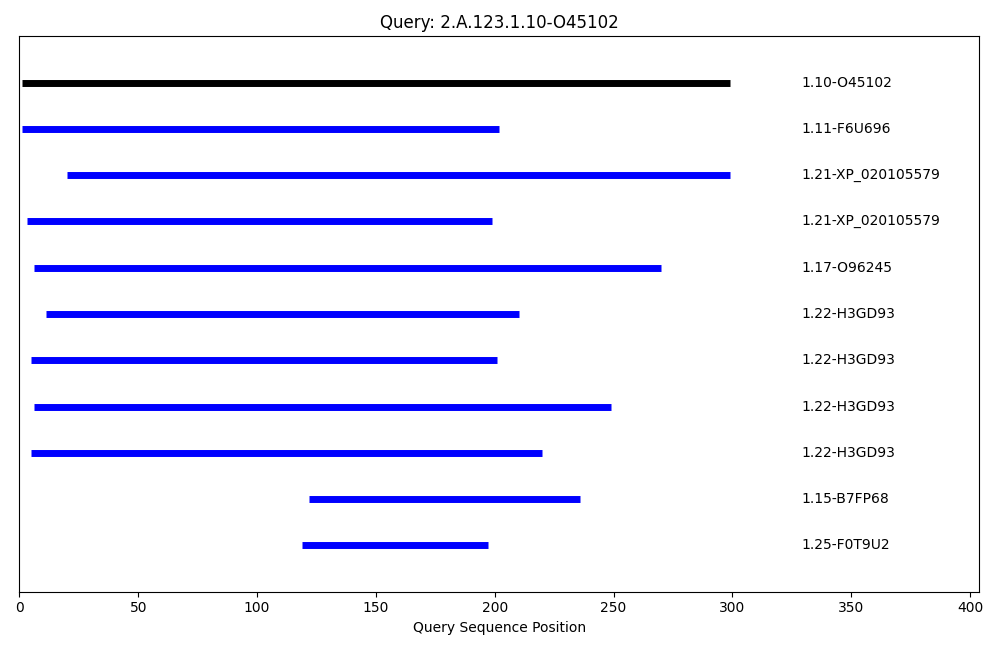
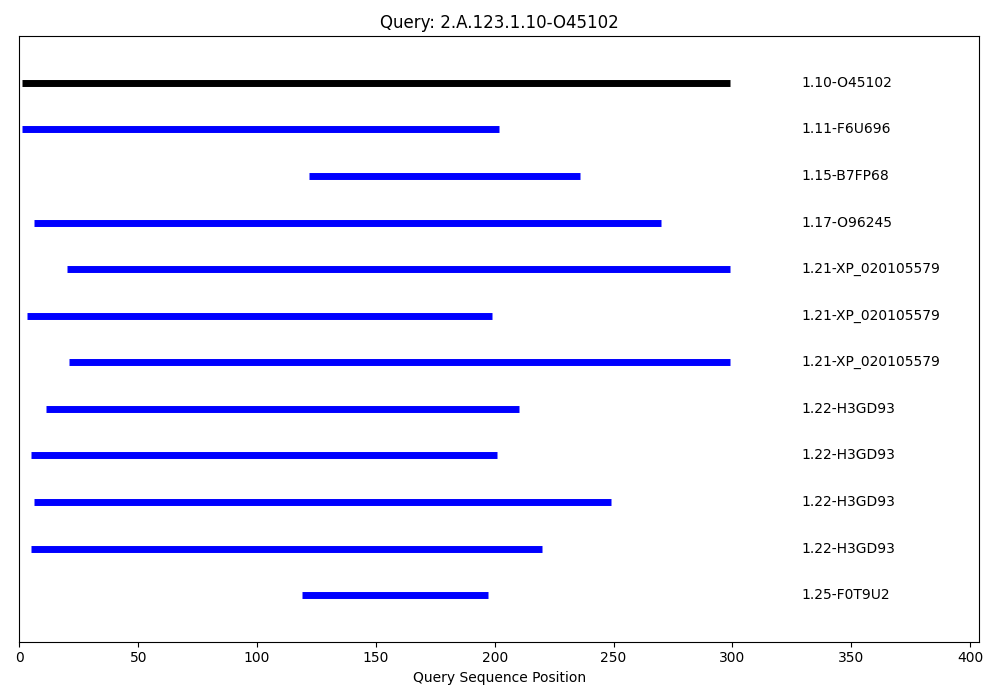
add reversed matches

diff --git a/first_task_graph.py b/first_task_graph.py
@@ -3,13 +3,34 @@ import matplotlib.pyplot as plt
 import os
 
 df = pd.read_csv("first_task_output.tsv", sep="\t")
+df = df.iloc[:, :-3]
+
+# extract the reversed match for graphing
+reversed_df = df.copy()
+
+reversed_df["Query ID"] = df["Subject ID"]
+reversed_df["Subject ID"] = df["Query ID"]
+
+reversed_df["Query Length"] = df["Subject Length"]
+reversed_df["Subject Length"] = df["Query Length"]
+
+reversed_df["Left Pos"] = df["Subject Start"]
+reversed_df["Right Pos"] = df["Subject End"]
+
+reversed_df["Subject Start"] = df["Left Pos"]
+reversed_df["Subject End"] = df["Right Pos"]
+
+df_all = pd.concat([df, reversed_df], ignore_index=True)
+df_all = df_all.drop_duplicates()
+df_all = df_all.sort_values(by=["Query ID", "Subject ID"])
+
 out_dir = "query_alignment_graphs"
 os.makedirs(out_dir, exist_ok=True)
 
 # for each query
-for query in df["Query ID"].unique():
+for query in df_all["Query ID"].unique():
     # subset for current query
-    subset = df[df["Query ID"] == query]
+    subset = df_all[df_all["Query ID"] == query]
     length = subset["Query Length"].iloc[0]
 
     fig, ax = plt.subplots(figsize=(10, 1.5 + 0.5 * len(subset)))
@@ -28,8 +49,8 @@ for query in df["Query ID"].unique():
 
     # plot subjects
     for i, row in enumerate(reversed(list(subset.itertuples())), 1):
-        left_pos = row._4 
-        right_pos = row._5  
+        left_pos = row._5 
+        right_pos = row._6  
         subject = row._2 
         ax.hlines(
             y=i, 
